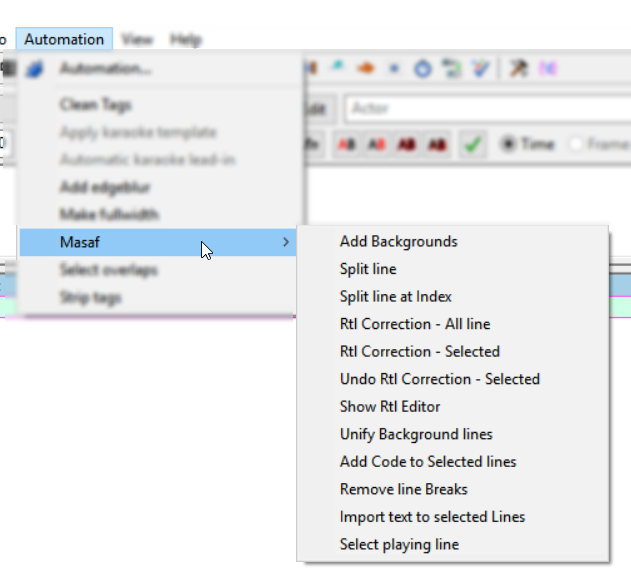
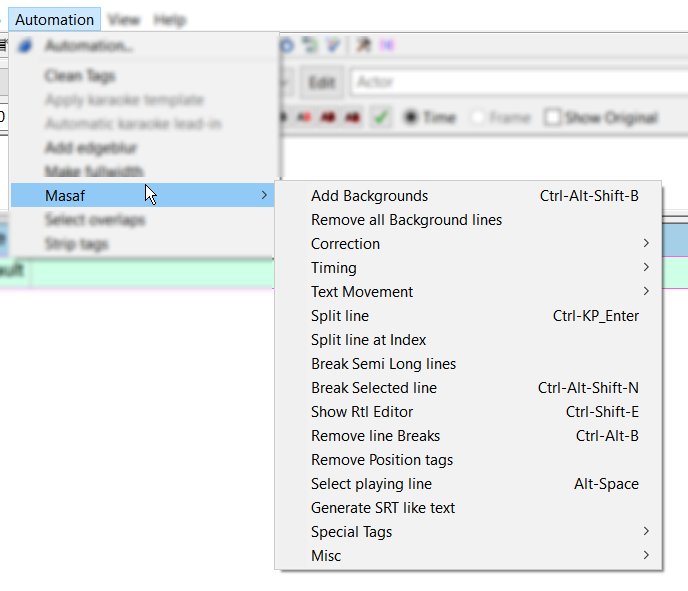
Added timing functions

Changed region(s): [[0.0, 0.0, 1.0, 0.9846]]

diff --git a/README.md b/README.md
@@ -7,44 +7,52 @@ Some Aegisub automation scripts specially designed for Right-To-Left language su
 ## Scripts:
 
 - Add Backgrounds
-- Split line
-- Split line at Index
+- Remove all Background lines
 - Rtl Correction - All lines
 - Rtl Correction - Selected
+- Add RLE - Selected lines
 - Undo Rtl Correction - Selected
-- Show Rtl Editor
-- Unify Background lines
-- Add Code to Selected lines
-- Remove line Breaks
-- Import text to selected Lines
-- Select playing line
-- Make next line continuous
+- Numbers to English
+- Numbers to Arabic
+- Numbers to Persian
+- Selected Numbers to English
+- Selected Numbers to Arabic
+- Selected Numbers to Persian
 - Shift start line forward
 - Shift start line backward
 - Shift end line forward
 - Shift end line backward
+- Make next line continuous
+- Make Same time
+- Make Same Start time
+- Make Same End time
 - Move last text part
 - Move first part of next
 - Move last word
 - Move first word of next
+- Shift Linebreak
+- Shift Linebreak Back
+- Split line
+- Split line at Index
+- Break Semi Long lines
+- Break Selected line
+- Show Rtl Editor
+- Remove line Breaks
 - Remove Position tags
-- Generate SRT like text
-- Remove Background lines
-- Convert Numbers to English
-- Convert Numbers to Arabic
-- Convert Numbers to Persian
+- Select playing line
 - Fix line Position
 - Set line as No Background
 - Set line as Don't Correct RTL
 - Set line as Don't Remove
-- Shift Linebreak
-- Shift Linebreak Back
-- Break Semi Long lines
-- Break Selected line
+- Generate SRT like text
+- Unify Background lines
+- Add Code to Selected lines
+- Import text to selected Lines
+- Display sum of times
 
 ## Screenshots:
 
-Teransparent background for subtitle
+Transparent background for subtitle
 
 ![Add Background](img/AddBackground.jpg)
 
